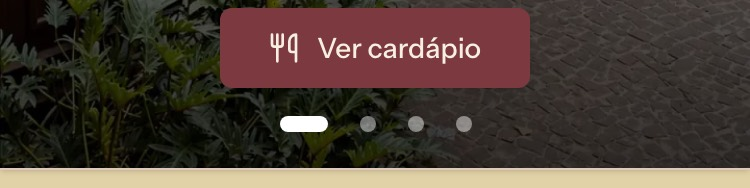
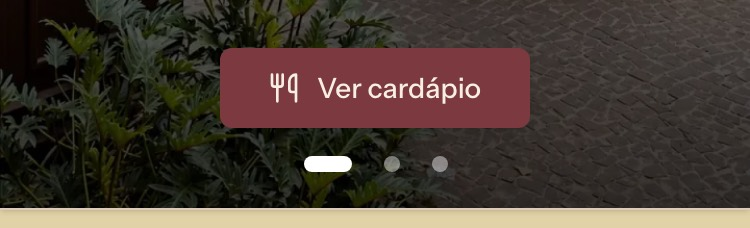
OC-32: o carrossel da home sai do slide que repetia a saudação
Decisão do dono na #3496: tirar o 3º slide (greeting-return), que repetia o
título do 1º ("Boa noite." / "Boa noite, João."), e com ele as fotos
facade4.webp e interior.webp, que só ele usava. O hero fica com três slides:
saudação, pedido, feito à mão. Sem resíduo: as duas fotos saem de
public/img/home, a trava do hero passa a exigir a ausência do slide e das
fotos, e o plano de fotos da Home (WP-FOTOS-INSTAGRAM-HOME) registra a saída
de H4/H5. O slide não vinha de seed nem de copy da casa.

Prévia (375 e desktop, anônimo e logado): 3 slides, nenhum título repetido,
pontinhos 40x44/24x44/24x44, axe sem target-size.

Compromisso: DEV-2026-085
Closes #3496

diff --git a/surfaces/storefront-nuxt/app/components/HomeHeroThing.vue b/surfaces/storefront-nuxt/app/components/HomeHeroThing.vue
@@ -34,13 +34,12 @@ const props = defineProps<{
 // a segunda não custa peso.
 //
 // A versão do celular tem teto de ~120 KB (laudo 23/10, U9): a primeira foto é a
-// maior pintura da home no 4G, e 313 KB atrasavam o LCP. As de pé (facade6,
-// facade4) já são só do celular; as quadradas ganharam irmã `-phone`, menor, e a
+// maior pintura da home no 4G, e 313 KB atrasavam o LCP. A de pé (facade6) já é
+// só do celular; as quadradas ganharam irmã `-phone`, menor, e a
 // original segue para a faixa larga e para o resto da home.
 const HERO_IMAGES = {
   greeting: { phone: '/img/home/facade6.webp', wide: '/img/home/facade2.webp' },
   order: { phone: '/img/home/selfservice-phone.webp', wide: '/img/home/selfservice.webp' },
-  greetingReturn: { phone: '/img/home/facade4.webp', wide: '/img/home/interior.webp' },
   handmade: { phone: '/img/home/baguette-phone.webp', wide: '/img/home/baguette.webp' }
 } as const
 
@@ -187,17 +186,9 @@ const slides = computed<HeroSlide[]>(() => {
 
   // A recompra NÃO é slide: ela tem o cartão próprio logo abaixo do hero, com os
   // itens do último pedido. Com os dois, quem voltava lia "Quer repetir seu
-  // último pedido?" duas vezes na mesma tela (laudo da Etapa II, 23/11).
-  list.push({
-    ref: 'greeting-return',
-    titleLines: [greetingTitle],
-    image: HERO_IMAGES.greetingReturn,
-    imageAlt: shop.brand_name,
-    primaryLabel: menuLabel,
-    primaryIcon: 'lucide:utensils',
-    primaryTo: menuTo.value
-  })
-
+  // último pedido?" duas vezes na mesma tela (laudo da Etapa II, 23/11). E não há
+  // slide que repita a saudação no lugar dela: o dono decidiu tirar o slide de
+  // volta, com as fotos dele (#3496, 24/11).
   list.push({
     ref: 'handmade',
     titleLines: [

diff --git a/surfaces/storefront-nuxt/tests/surfaceGuardrails.test.ts b/surfaces/storefront-nuxt/tests/surfaceGuardrails.test.ts
@@ -279,13 +279,16 @@ describe('surface UX guardrails', () => {
     expect(hero).not.toContain("ref: 'reorder'")
     expect(hero).toContain("ref: 'handmade'")
     expect(hero).toMatch(/ref: 'greeting',\n\s+titleLines: \[greetingTitle\],\n\s+image/)
-    expect(hero).toMatch(/ref: 'greeting-return',\n\s+titleLines: \[greetingTitle\],\n\s+image/)
+    // Saudação uma vez só: o slide que a repetia saiu com as fotos dele (#3496).
+    expect(hero).not.toContain("ref: 'greeting-return'")
+    expect(hero).not.toContain('/img/home/facade4.webp')
+    expect(hero).not.toContain('/img/home/interior.webp')
     // Foto da casa, e uma por formato: o herói é faixa larga no computador e
     // tela cheia em pé no celular — uma foto só perde metade do assunto num
     // dos dois. Banco de imagem aqui é padaria de outra gente na nossa vitrine.
     expect(hero).not.toContain('images.unsplash.com')
     expect(hero).toContain('<source media="(min-width: 640px)"')
-    for (const foto of ['facade6', 'facade2', 'selfservice', 'facade4', 'interior', 'baguette']) {
+    for (const foto of ['facade6', 'facade2', 'selfservice', 'baguette']) {
       expect(hero).toContain(`/img/home/${foto}.webp`)
     }
     expect(hero).not.toContain('copy.reorder_title_prefix')

diff --git a/docs/plans/WP-FOTOS-INSTAGRAM-HOME.md b/docs/plans/WP-FOTOS-INSTAGRAM-HOME.md
@@ -46,13 +46,13 @@ na primeira vez.
 Todas moram em `surfaces/storefront-nuxt/public/img/home/` e são referenciadas
 direto no código. Não passam pelo banco nem pelo catálogo.
 
+H4 e H5 (o slide "quem já comprou", `facade4.webp`/`interior.webp`) saíram da Home em 24/11/2026: o slide repetia a saudação, e o dono decidiu tirá-lo com as fotos (#3496).
+
 | # | Lugar | Arquivo | Onde | Quadro que a tela recorta | Mínimo para ficar nítido | Orientação |
 |---|---|---|---|---|---|---|
 | H1 | Herói, "quem chega" (celular) | `facade6.webp` (900×1600) | `HomeHeroThing.vue` | quase a tela inteira em pé, ~2:3 a 9:16 | **1080×1920** | **vertical** |
 | H2 | Herói, "quem chega" (≥640px) | `facade2.webp` (1600×900) | idem | faixa de ~1090×440–480, ~2,3:1 | **2200×1000** (16:9 serve se o assunto estiver no meio) | **horizontal** |
 | H3 | Herói, "pedido em andamento" | `selfservice.webp` (1254² nos dois) | idem | os dois quadros acima | 1080×1920 **e** 2200×1000 | par vertical + horizontal |
-| H4 | Herói, "quem já comprou" (celular) | `facade4.webp` (900×1600) | idem | vertical | 1080×1920 | vertical |
-| H5 | Herói, "quem já comprou" (≥640px) | `interior.webp` (1600×900) | idem | faixa larga | 2200×1000 | horizontal |
 | H6 | Herói, "feito à mão" | `baguette.webp` (1254² nos dois) | idem | os dois quadros | 1080×1920 **e** 2200×1000 | par vertical + horizontal |
 | C1 | "Como funciona": pedir online | `baguette.webp` | `pages/index.vue` | 16:9, ~540 px de largura | 1280×720 | horizontal |
 | C2 | "Como funciona": vir à loja | `selfservice.webp` | idem | 16:9 | 1280×720 | horizontal |
@@ -81,7 +81,6 @@ fotos são do WP-FOTOS-DA-CASA, porque foto de produto promete **aquela** peça.
 |---|---|---|
 | H1/H2, quem chega | **fachada ou salão com luz de dia**, a casa como lugar | Primeira impressão: onde fica e como é por dentro |
 | H3, pedido em andamento | **balcão/vitrine cheia** ou **mãos embalando** | "Seu pedido está sendo preparado" |
-| H4/H5, quem já comprou | **interior acolhedor**: mesas, café servido | Volta de quem já conhece |
 | H6, feito à mão | **forno/fornada**: pão saindo, massa sendo modelada, levain | O argumento central da casa (fermentação natural desde 1997) |
 | C1, pedir online | **produto em contexto**, pronto para levar (sacola, caixa) | É o caminho da compra online |
 | C2, vir à loja | **vitrine/balcão do autoatendimento** | É o caminho da visita |
